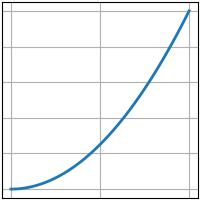
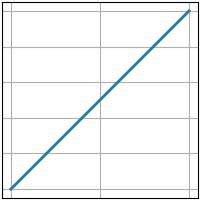
v1

Changed region(s): [[0.03, 0.03, 0.96, 0.96]]

diff --git a/routers/comands/functions.py b/routers/comands/functions.py
@@ -35,14 +35,18 @@ async def start_functions(message: types.Message, state: FSMContext):
 
 
 @router.message(FunctionsDialog.functions_save)
-async def quadratic_save(message: types.Message, state: FSMContext):
-    quadratic_x = message.text
-    solved_functions = Math()
-    await bot.send_message(message.from_user.id, text=f' Затрачено времени: {solved_functions.func(quadratic_x)}')
-    album_builder = MediaGroupBuilder()
+async def functions_save(message: types.Message, state: FSMContext):
+    functions_text = message.text
+    print(type(functions_text))
+    functions_res = Math()
+    functions_res.func(functions_text)
+    album_builder = MediaGroupBuilder(
+        caption="готовый график: "
+    )
     album_builder.add(
         type="photo",
-        media=FSInputFile("saved_figure.jpg"))
+        media=FSInputFile("saved_figure.jpg")
+    )
     await message.answer_media_group(
         media=album_builder.build()
     )
@@ -60,7 +64,7 @@ async def angly_callback_data_functions(callback: types.CallbackQuery):
 @router.callback_query(F.data == help_functions_two)
 async def angly_callback_data_functions_two(callback: types.CallbackQuery):
     await callback.answer(
-        text='Оформление графика функций выглядит так 1) введите три значение x 2) чему равен y пример: 1 10 100 x + 4',
+        text='Оформление графика функций выглядит так 1) введите три значение x 2) чему равен y пример: [1, 10, 100] x + 4',
         show_alert=True
     )
 

diff --git a/routers/comands/math.py b/routers/comands/math.py
@@ -24,15 +24,15 @@ class Math:
         return eval(*args)
 
     def func(self, x_and_y):
-        x_and_y = x_and_y.split(' ')
-        x = []
-        y = []
-        for i in range(len(x_and_y)):
-            if i <= 2:
-                x.append(int(x_and_y[i]))
-            else:
-                y.append(x_and_y[i])
-        start_time = time()
+        x = ''
+        i = 0
+        while x_and_y[i] != ']':
+            x += x_and_y[i]
+            i += 1
+        x += ']'
+        y = x_and_y
+        y = y.replace(x, '')
+        x = eval(x)
         plt.style.use('_mpl-gallery')
         x0, x1, x2 = x
         x = np.linspace(x0, x1, x2)
@@ -40,5 +40,4 @@ class Math:
         fig, ax = plt.subplots()
         ax.plot(x, y, linewidth=2)
         fig.savefig('saved_figure.jpg')
-        end_time = time()
-        return end_time - start_time
+

diff --git a/routers/comands/quadratic.py b/routers/comands/quadratic.py
@@ -3,7 +3,7 @@ from aiogram.utils.keyboard import InlineKeyboardBuilder
 from aiogram.filters.command import Command
 from aiogram import Bot, types
 from aiogram.fsm.context import FSMContext
-from states import FunctionsDialog
+from states import QuadraticDialog
 from routers.comands.math import Math
 
 
@@ -25,10 +25,10 @@ async def start_quadratic(message: types.Message, state: FSMContext):
                            reply_markup=builder_start_quadratic.as_markup()
                            )
 
-    await state.set_state(FunctionsDialog.functions_save)
+    await state.set_state(QuadraticDialog.quadratic_save)
 
 
-@router.message(FunctionsDialog.functions_save)
+@router.message(QuadraticDialog.quadratic_save)
 async def quadratic_save(message: types.Message, state: FSMContext):
     quadratic_text = message.text
     solved_equation = Math()
